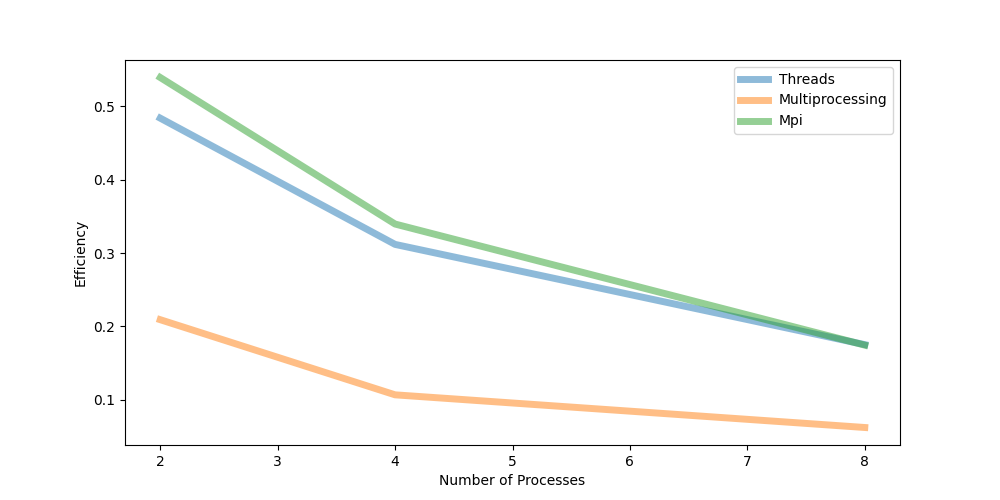
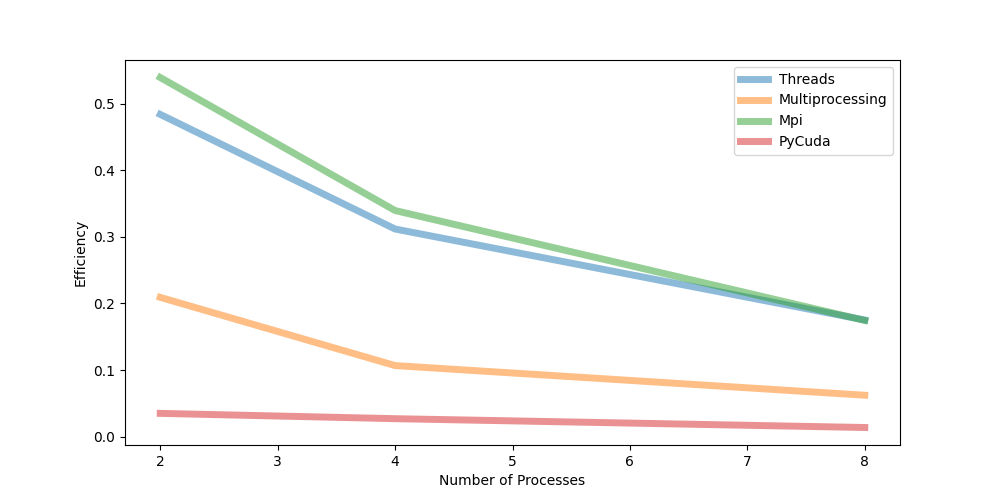
Se agregaron las graficas

diff --git a/pruebas.py b/pruebas.py
@@ -119,6 +119,7 @@ def main():
     data_hilos = read_csv_file("pruebas/hilos.csv")
     data_multi = read_csv_file("pruebas/multi.csv")
     data_mpi = read_csv_file("pruebas/mpi.csv")
+    data_pycuda = read_csv_file("pruebas/pycuda.csv")
 
     # Grafica los datos
     plt.title("Speed up vs Number of Processes")
@@ -126,16 +127,19 @@ def main():
     tiempo_hilos = data_hilos["parallel_time"]
     tiempo_multi = data_multi["parallel_time"]
     tiempo_mpi = data_mpi["parallel_time"]
+    tiempo_pycuda = data_pycuda["parallel_time"]
+
 
     speed_up_hilos = [tiempo_secuencial / tiempo_hilos[i] for i in range(len(tiempo_hilos))]
     speed_up_multi = [tiempo_secuencial / tiempo_multi[i] for i in range(len(tiempo_multi))]
     speed_up_mpi = [tiempo_secuencial / tiempo_mpi[i] for i in range(len(tiempo_mpi))]
-
+    speed_up_pycuda = [tiempo_secuencial / tiempo_pycuda[i] for i in range(len(tiempo_pycuda))]
 
     ax = plt.figure(figsize=(10,5)).add_subplot(111)
     ax.plot(data_hilos["num_processes"], speed_up_hilos, linewidth=5, alpha=0.5, label="Threads")
     ax.plot(data_multi["num_processes"], speed_up_multi, linewidth=5, alpha=0.5, label="Multiprocessing")
     ax.plot(data_mpi["num_processes"], speed_up_mpi, linewidth=5, alpha=0.5, label="Mpi")
+    ax.plot(data_pycuda["num_processes"], speed_up_pycuda, linewidth=5, alpha=0.5, label="PyCuda")
 
     ax.set_xlabel("Number of Processes")
     ax.set_ylabel("Speed Up")
@@ -145,30 +149,36 @@ def main():
     efficiency_hilos = [speed_up_hilos[i] / data_hilos["num_processes"][i] for i in range(len(speed_up_hilos))]
     efficiency_multi = [speed_up_multi[i] / data_multi["num_processes"][i] for i in range(len(speed_up_multi))]
     efficiency_mpi = [speed_up_mpi[i] / data_mpi["num_processes"][i] for i in range(len(speed_up_mpi))]
+    efficiency_pycuda = [speed_up_pycuda[i] / data_pycuda["num_processes"][i] for i in range(len(speed_up_pycuda))]
 
     plt.title("Efficiency vs Number of Processes")
     ax = plt.figure(figsize=(10,5)).add_subplot(111)
     ax.plot(data_hilos["num_processes"], efficiency_hilos, linewidth=5, alpha=0.5, label="Threads")
     ax.plot(data_multi["num_processes"], efficiency_multi, linewidth=5, alpha=0.5, label="Multiprocessing")
     ax.plot(data_mpi["num_processes"], efficiency_mpi, linewidth=5, alpha=0.5, label="Mpi")
+    ax.plot(data_pycuda["num_processes"], efficiency_pycuda, linewidth=5, alpha=0.5, label="PyCuda")
 
     ax.set_xlabel("Number of Processes")
     ax.set_ylabel("Efficiency")
     ax.legend()
     plt.savefig("pruebas/efficiency.png")
 
-    tiempo_secuencial_t = data_secuencial["total_time"]
-    tiempo_hilos_t = data_hilos["total_time"]
-    tiempo_multi_t = data_multi["total_time"]
-    tiempo_mpi_t = data_mpi["total_time"]
+    tiempo_secuencial_t = data_secuencial["secuential_time"]
+    tiempo_hilos_t = data_hilos["parallel_time"]
+    tiempo_multi_t = data_multi["parallel_time"]
+    tiempo_mpi_t = data_mpi["parallel_time"]
+    tiempo_pycuda_t = data_pycuda["parallel_time"]
 
     s_scalability_t = [tiempo_hilos_t[i] for i in range(len(tiempo_hilos_t))]
     s_scalability_mul = [tiempo_multi_t[i] for i in range(len(tiempo_multi_t))]
     s_scalability_mpi = [tiempo_mpi_t[i] for i in range(len(tiempo_mpi_t))]
+    s_scalability_pycuda = [tiempo_pycuda_t[i] for i in range(len(tiempo_pycuda_t))]
 
     s_scalability_t.insert(0, tiempo_secuencial_t[0])
     s_scalability_mul.insert(0, tiempo_secuencial_t[0])
     s_scalability_mpi.insert(0, tiempo_secuencial_t[0])
+    s_scalability_pycuda.insert(0, tiempo_secuencial_t[0])
+
 
     num_processes = [1,2,4,8]
     plt.title("Strong scalability vs Number of Processes")
@@ -176,6 +186,7 @@ def main():
     ax.plot(num_processes, s_scalability_t, linewidth=5, alpha=0.5, label="Threads")
     ax.plot(num_processes, s_scalability_mul, linewidth=5, alpha=0.5, label="Multiprocessing")
     ax.plot(num_processes, s_scalability_mpi, linewidth=5, alpha=0.5, label="Mpi")
+    ax.plot(num_processes, s_scalability_pycuda, linewidth=5, alpha=0.5, label="PyCuda")
 
     ax.set_xlabel("Number of Processes")
     ax.set_ylabel("Scalability")
@@ -189,25 +200,26 @@ def main():
     tiempo_multi_t = data_multi["parallel_time"]
     tiempo_mpi_t = data_mpi["parallel_time"]
 
-    s_scalability_t = [tiempo_hilos_t[i] for i in range(len(tiempo_hilos_t))]
-    s_scalability_mul = [tiempo_multi_t[i] for i in range(len(tiempo_multi_t))]
-    s_scalability_mpi = [tiempo_mpi_t[i] for i in range(len(tiempo_mpi_t))]
 
-    s_scalability_t.insert(0, tiempo_secuencial_t[0])
-    s_scalability_mul.insert(0, tiempo_secuencial_t[0])
-    s_scalability_mpi.insert(0, tiempo_secuencial_t[0])
+    # s_scalability_t = [tiempo_hilos_t[i] for i in range(len(tiempo_hilos_t))]
+    # s_scalability_mul = [tiempo_multi_t[i] for i in range(len(tiempo_multi_t))]
+    # s_scalability_mpi = [tiempo_mpi_t[i] for i in range(len(tiempo_mpi_t))]
 
-    num_processes = [1,2,4,8]
-    plt.title("Strong scalability vs Number of Processes")
-    ax = plt.figure(figsize=(10,5)).add_subplot(111)
-    ax.plot(num_processes, s_scalability_t, linewidth=5, alpha=0.5, label="Threads")
-    ax.plot(num_processes, s_scalability_mul, linewidth=5, alpha=0.5, label="Multiprocessing")
-    ax.plot(num_processes, s_scalability_mpi, linewidth=5, alpha=0.5, label="Mpi")
+    # s_scalability_t.insert(0, tiempo_secuencial_t[0])
+    # s_scalability_mul.insert(0, tiempo_secuencial_t[0])
+    # s_scalability_mpi.insert(0, tiempo_secuencial_t[0])
 
-    ax.set_xlabel("Number of Processes")
-    ax.set_ylabel("Scalability")
-    ax.legend()
-    plt.savefig("pruebas/strong-scalability.png")
+    # num_processes = [1,2,4,8]
+    # plt.title("Strong scalability vs Number of Processes")
+    # ax = plt.figure(figsize=(10,5)).add_subplot(111)
+    # ax.plot(num_processes, s_scalability_t, linewidth=5, alpha=0.5, label="Threads")
+    # ax.plot(num_processes, s_scalability_mul, linewidth=5, alpha=0.5, label="Multiprocessing")
+    # ax.plot(num_processes, s_scalability_mpi, linewidth=5, alpha=0.5, label="Mpi")
+
+    # ax.set_xlabel("Number of Processes")
+    # ax.set_ylabel("Scalability")
+    # ax.legend()
+    # plt.savefig("pruebas/strong-scalability.png")
 
 if __name__ == "__main__":
     main()
